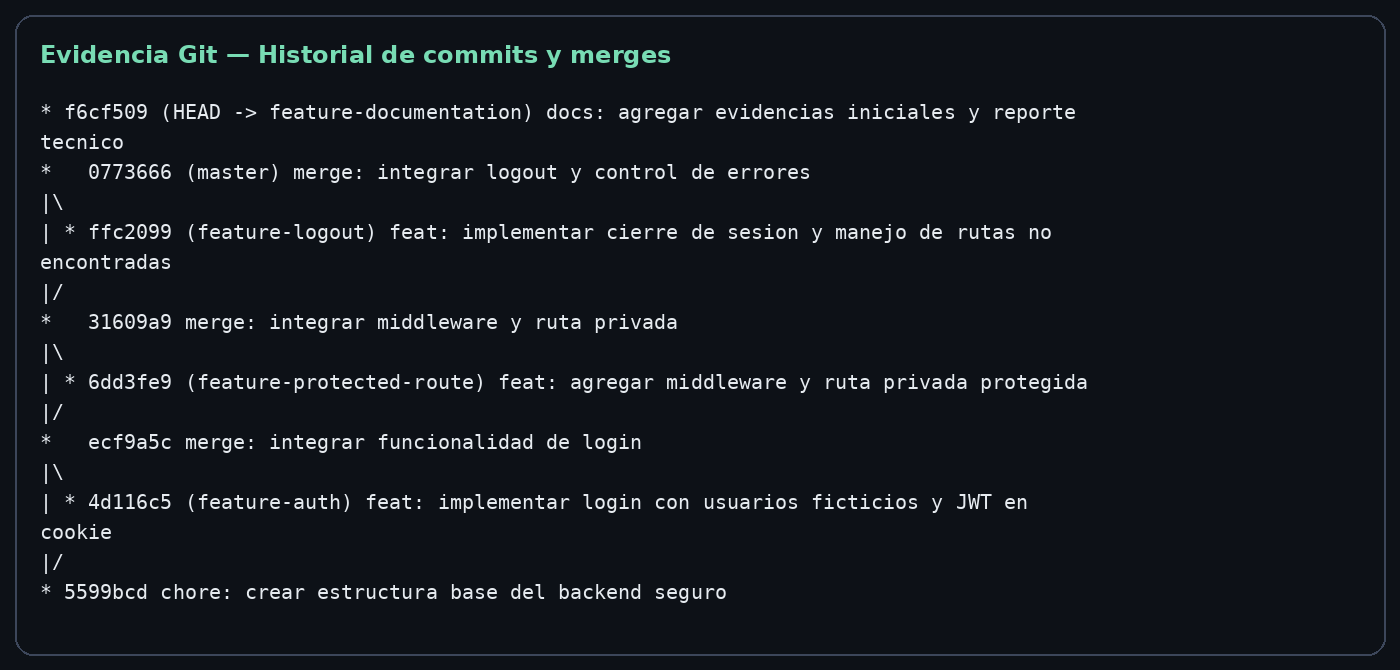
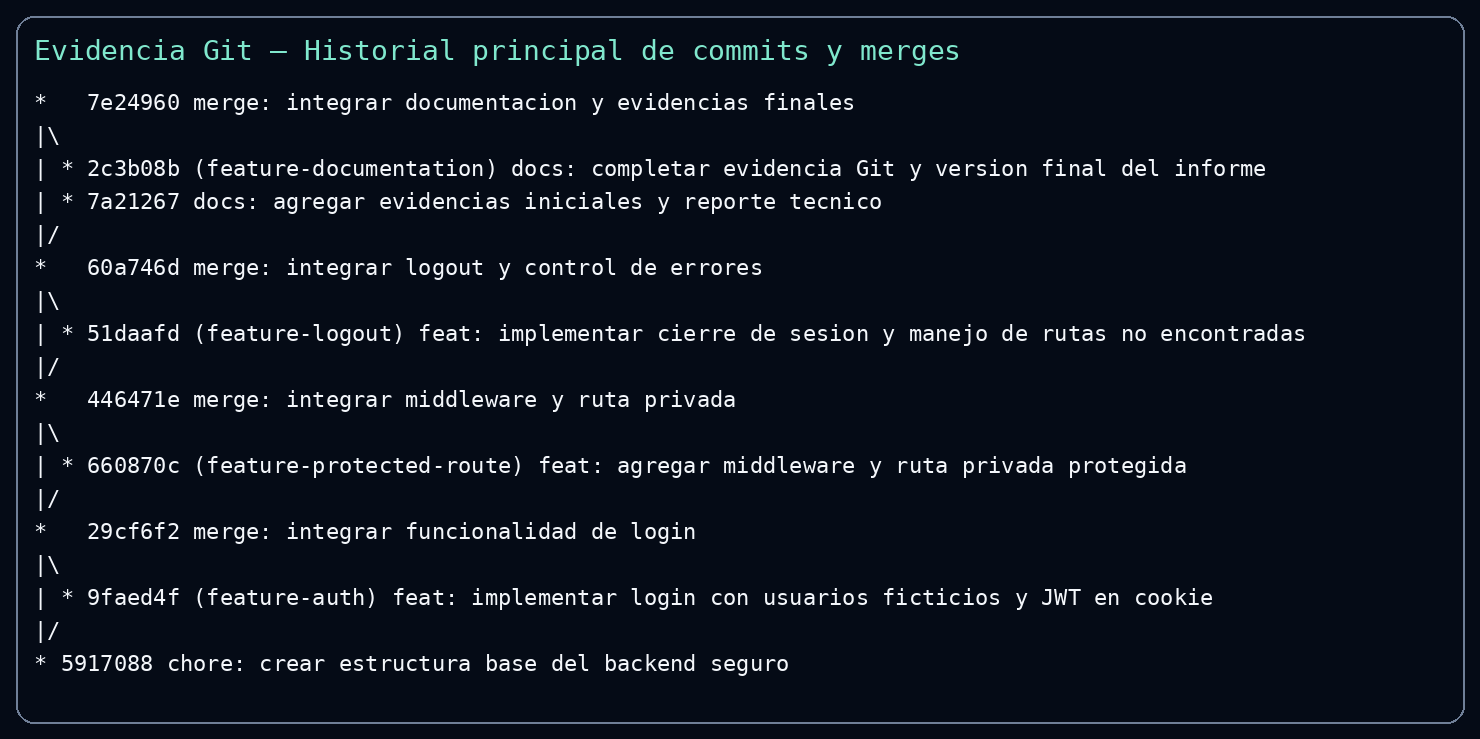
docs: refrescar README y evidencia del repositorio

diff --git a/README.md b/README.md
@@ -1,4 +1,6 @@
-# Backend seguro con Express.js, JWT y cookies ## Requisitos cubiertos
+# Backend seguro con Express.js, JWT y cookies
+
+## Requisitos cubiertos
 - Servidor en Express.js.
 - Ruta `POST /login` con validación de 2 usuarios ficticios.
 - JWT firmado con expiración.
@@ -6,14 +8,22 @@
 - Ruta privada `GET /privado` protegida por middleware.
 - Cierre de sesión con `POST /logout` eliminando la cookie.
 - Documentación técnica en Word.
-- Evidencias de pruebas y control de versiones. ## Usuarios ficticios de prueba
+- Evidencias de pruebas y control de versiones.
+
+## Usuarios ficticios de prueba
 - `admin` / `Admin1234!`
-- `analista` / `Analista123!` ## Variables de entorno
-Copia `.env.example` como `.env` y ajusta el secreto JWT si lo deseas. ## Ejecución
+- `analista` / `Analista123!`
+
+## Variables de entorno
+Copia `.env.example` como `.env` y ajusta el secreto JWT si lo deseas.
+
+## Ejecución
 ```bash
 npm install
 npm start
-``` ## Rutas principales
+```
+
+## Rutas principales
 - `GET /health`
 - `POST /login`
 - `GET /privado`
